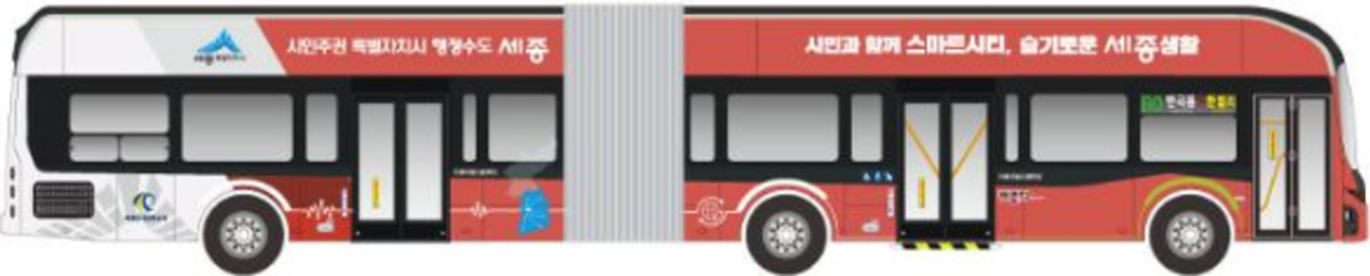
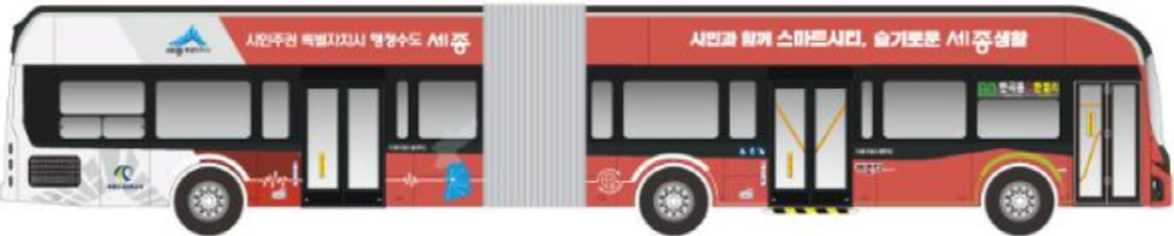
[양현우] 차내장치 모니터링 클릭 이벤트, 전면부 추가

diff --git a/SBRT-Web/src/main/resources/static/cm/css/main.css b/SBRT-Web/src/main/resources/static/cm/css/main.css
@@ -705,4 +705,19 @@ body {
    background-position: top;
    position: relative;	
 	}
+	
+.woojin_bus_img {
+  /*  background-image: url('/cm/images/bms/woojin_bus.png'); */
+   background-image: url('/cm/images/bms/woojin_front_bus.png');
+   background-repeat: no-repeat;
+   background-position: top;
+   position: relative;	
+	}
+	
+.normal_bus_img {
+   background-image: url('/cm/images/bms/normal_bus.png');
+   background-repeat: no-repeat;
+   background-position: top;
+   position: relative;	
+	}
 }

diff --git a/SBRT-Web/src/main/resources/static/cm/css/layout.css b/SBRT-Web/src/main/resources/static/cm/css/layout.css
@@ -141,6 +141,7 @@
 .grdr_30_100_30_a {display:grid; grid-template-rows: 30px 100px 30px auto;}
 
 .grdr_20_200_20_a {display:grid; grid-template-rows: minmax(20px, max-content) 200px minmax(20px, max-content) auto;}
+.grdr_20_230_20_a {display:grid; grid-template-rows: minmax(20px, max-content) 230px minmax(20px, max-content) auto;}
 
 
 .grdr_20_300_a {display:grid; grid-template-rows: minmax(20px, max-content) 300px auto;}
